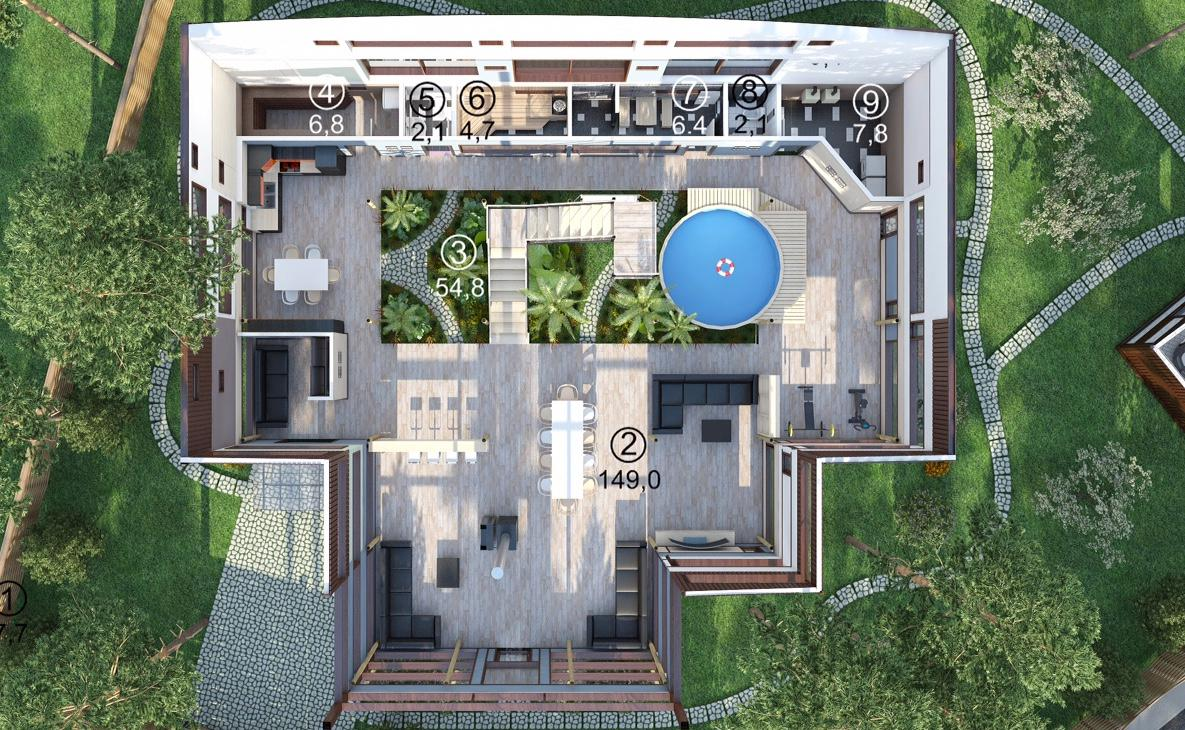
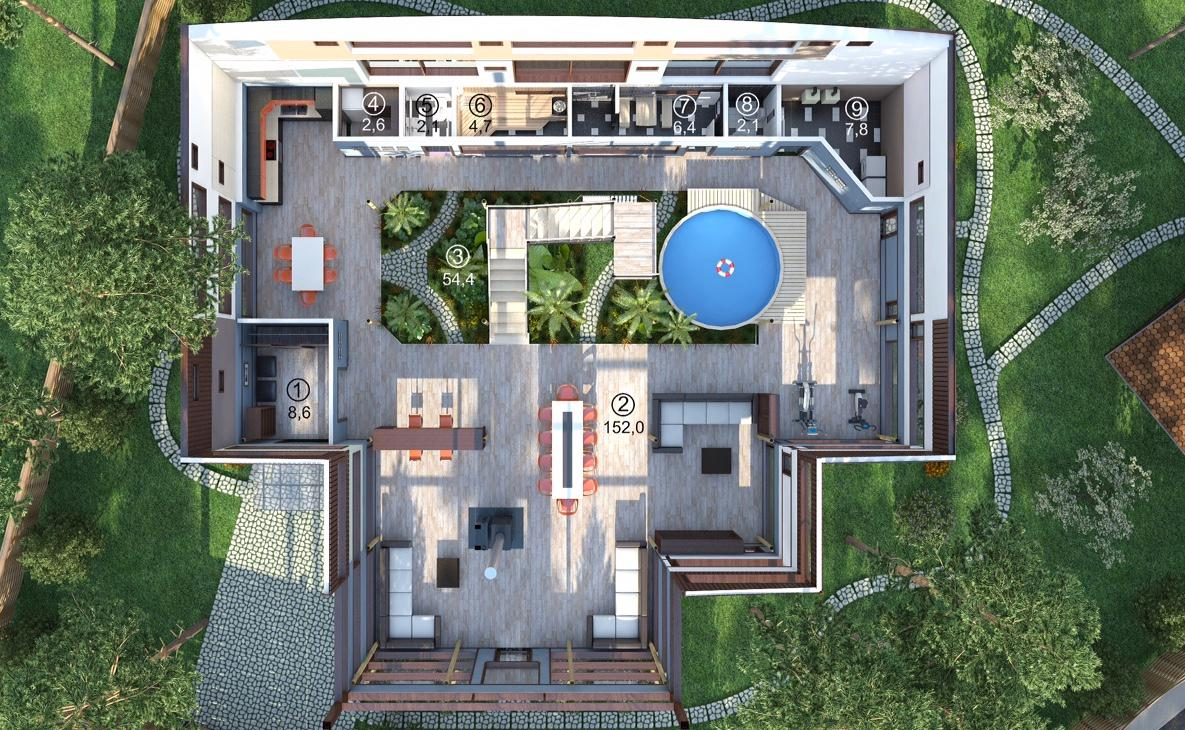
257/1: photos and info updated

diff --git a/catalogue/hill-park-257-1/photos.html b/catalogue/hill-park-257-1/photos.html
@@ -1,55 +1,72 @@
 <script type="text/javascript">
   var p = [
-  "img_0343.jpg",
+  "img_0849.jpg",
+  "img_0793.jpg",
+  "img_0803.jpg",
+  "img_0412.jpg",
+  "img_0804.jpg",
+  "img_0786.jpg",
+  "img_0805.jpg",
+  "img_0787.jpg",
+  "img_0806.jpg",
   "img_0434.jpg",
   "img_0435.jpg",
-  "img_0436.jpg",
-  "img_0411.jpg",
-  "img_0412.jpg",
-  "img_0348.jpg",
   "img_0349.jpg",
-  "img_0352.jpg",
-  "img_0353.jpg",
-  "img_9667.jpg",
-  "img_9668.jpg",
-  "img_9671.jpg",
+  "img_0801.jpg",
+  "img_0802.jpg",
+  "img_0768.jpg",
+  "img_0769.jpg",
+  "img_0770.jpg",
+  "img_0771.jpg",
+  "img_0772.jpg",
+  "img_0773.jpg",
+  "img_0774.jpg",
+  "img_0775.jpg",
+  "img_0776.jpg",
+  "img_0777.jpg",
+  "img_0778.jpg",
+  "img_0779.jpg",
   "img_9672.jpg",
-  "img_9770.jpg",
-  "img_9771.jpg",
-  "img_9666.jpg",
-  "img_9664.jpg",
-  "img_9769.jpg",
+  "img_9765.jpg",
   "img_0347.jpg",
-  "img_0356.jpg",
+  "img_0918.jpg",
+  "img_0919.jpg",
+  "img_0924.jpg",
   "img_0407.jpg",
   "img_0408.jpg",
   "img_0344.jpg",
+  "img_0800.jpg",
   "img_0255.jpg",
   "img_0254.jpg",
   "img_9660.jpg",
   "img_9661.jpg",
   "img_9686.jpg",
-  "img_9765.jpg",
-  "img_9767.jpg",
-  "img_9768.jpg",
   "img_9679.jpg",
-  "img_0277.jpg",
-  "img_0350.jpg",
-  "img_0354.jpg",
-  "img_0409.jpg",
-  "img_0410.jpg",
-  "img_0351.jpg",
-  "img_0172.jpg",
-  "img_0173.jpg",
-  "img_0174.jpg",
-  "img_0175.jpg",
-  "img_0176.jpg",
-  "img_0253.jpg",
-  "img_0170.jpg",
-  "img_0171.jpg",
-  "img_9674.jpg",
-  "img_9675.jpg",
   "img_9680.jpg",
+  "img_1079.jpg",
+  "img_1080.jpg",
+  "img_1081.jpg",
+  "img_1082.jpg",
+  "img_1083.jpg",
+  "img_0782.jpg",
+  "img_0783.jpg",
+  "img_0923.jpg",
+  "img_0785.jpg",
+  "img_0789.jpg",
+  "img_0791.jpg",
+  "img_0994.jpg",
+  "img_0922.jpg",
+  "img_0788.jpg",
+  "img_1078.jpg",
+  "img_1085.jpg",
+  "img_0796.jpg",
+  "img_0780.jpg",
+  "img_0781.jpg",
+  "img_0784.jpg",
+  "img_0790.jpg",
+  "img_0792.jpg",
+  "img_0794.jpg",
+  "img_0795.jpg"
   ]
 
   if(!window.photos) window.photos = [];
